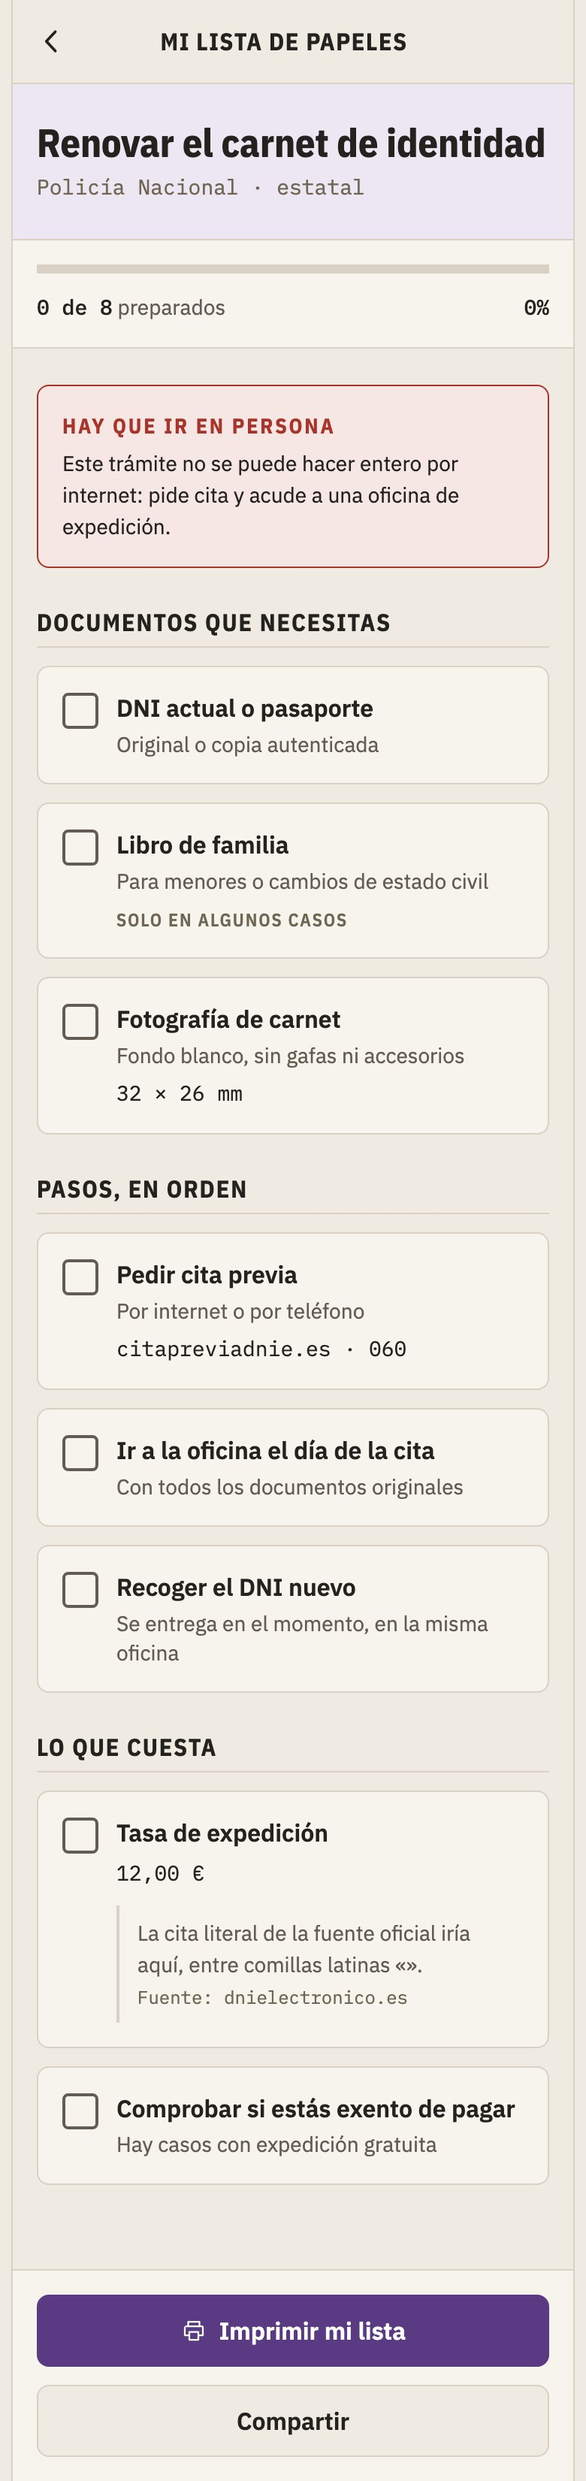
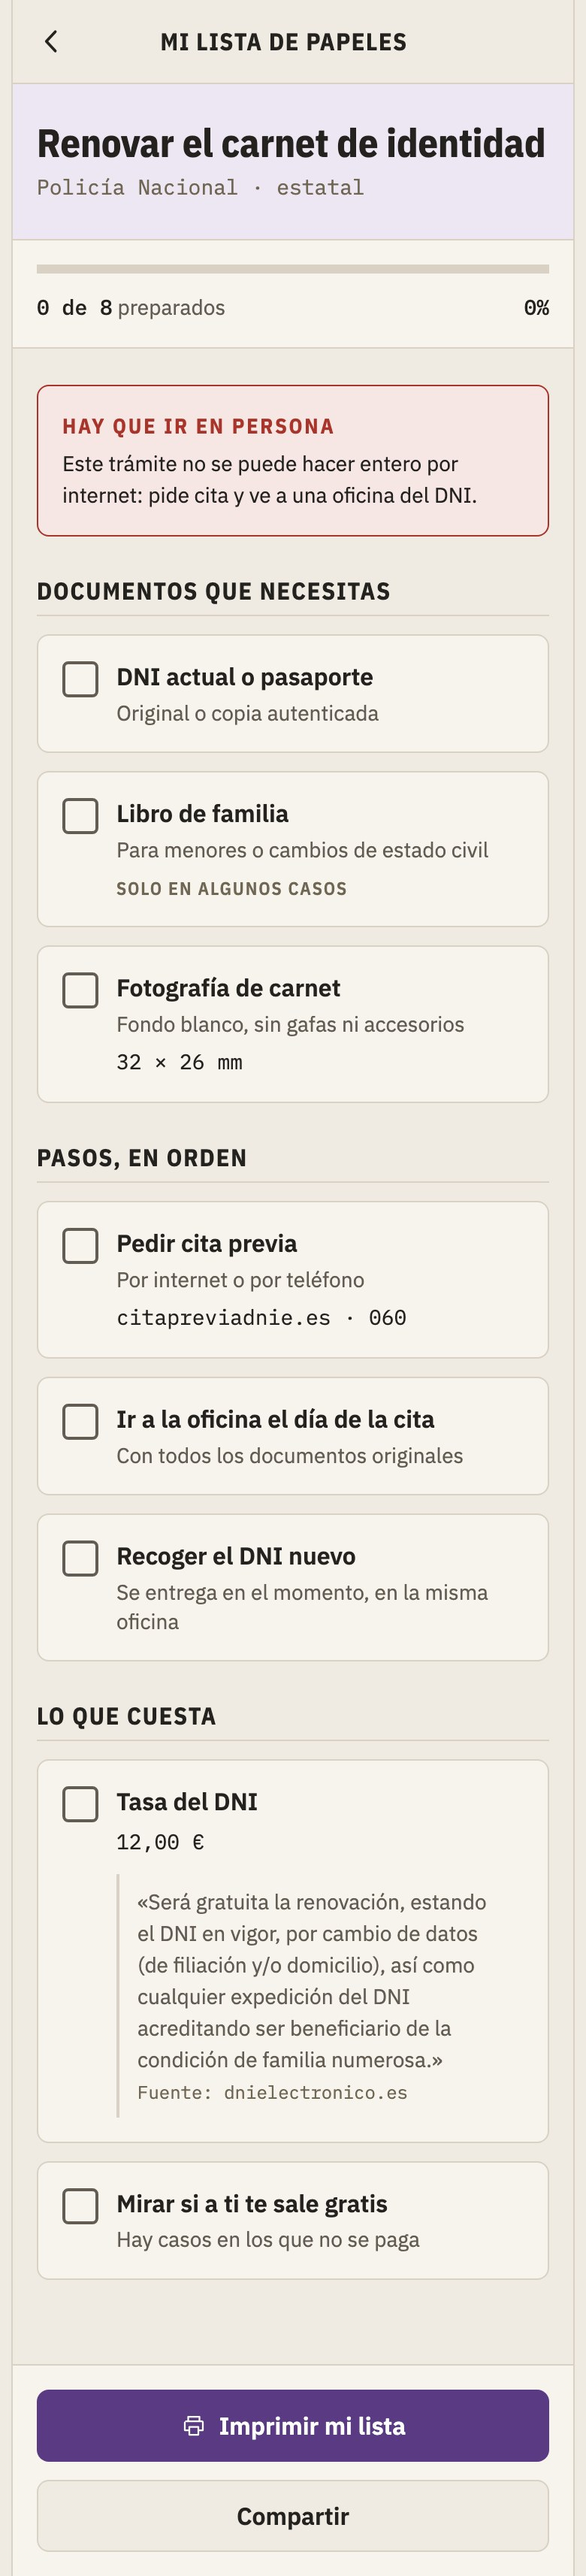
Repasar el texto de las cinco maquetas
Catorce cosas que sonaban a formulario o a maqueta sin terminar.

Lo que se publicaba mal:
- La checklist llevaba una nota para nosotros donde va la cita de la fuente («la
  cita literal iría aquí»), y salía en la captura commiteada. Ahora lleva una cita
  literal de verdad de dnielectronico.es, sobre cuándo el DNI sale gratis.
- La pestaña del wizard decía "Wizard de personalización". Ahora "Tu caso", igual
  que su barra.

Jerga de ventanilla, que es justo lo que prohíbe el DESIGN.md:
- "Mi cónyuge o conviviente" -> "Mi marido, mi mujer o mi pareja"
- "Yo soy quien lo solicita" -> "El trámite es para mí"
- "Así ajustamos los requisitos a tu caso" -> "...solo los papeles que necesitas tú"
- "acude a una oficina de expedición" -> "ve a una oficina del DNI"
- "Comprobar si estás exento de pagar" -> "Mirar si a ti te sale gratis"
- "la toma de huellas se hacen en la oficina" -> "las huellas te las toman allí"
- Las etiquetas "Nivel" y "Canales" -> "Ámbito" y "Cómo se hace"

Incoherencias entre pantallas:
- Los canales se llamaban "Online/En persona" en la ficha y "Desde casa/En una
  sede" en el wizard. Ahora "Por internet/En persona" en las tres.
- "Elige el canal" en la ficha y "Elige cómo vas a hacerlo" en el resumen. Se
  queda la segunda.
- Los pies de Home y ficha no coincidían. Ahora los dos llevan lo mismo.
- "El mes que viene / En los próximos dos meses" se contradecía sola.

Redacción:
- La descripción de la ficha empezaba en infinitivo y acababa tuteando.
[…]

Changed region(s): [[0.0615, 0.0, 0.9538, 0.8734], [0.0615, 0.9046, 0.9231, 0.9982], [0.8, 0.7174, 0.8308, 0.7486]]

diff --git a/diseño/pantallas/Wizard.html b/diseño/pantallas/Wizard.html
@@ -3,7 +3,7 @@
 <head>
   <meta charset="UTF-8">
   <meta name="viewport" content="width=device-width, initial-scale=1.0">
-  <title>Wizard de personalización · A la Primera</title>
+  <title>Tu caso · A la Primera</title>
   <link href="https://fonts.googleapis.com/css2?family=IBM+Plex+Sans:wght@400;500;600;700&family=IBM+Plex+Mono:wght@400;500;600&family=IBM+Plex+Sans+Condensed:wght@600;700&display=swap" rel="stylesheet">
   <style>
     * {
@@ -510,7 +510,7 @@
       <div class="pregunta activa" id="pregunta-1">
         <div>
           <h1 class="pregunta-titular">¿Para quién es?</h1>
-          <p class="pregunta-apoyo">Así ajustamos los requisitos a tu caso</p>
+          <p class="pregunta-apoyo">Así te decimos solo los papeles que necesitas tú</p>
         </div>
 
         <div class="opciones" id="opciones-1">
@@ -518,7 +518,7 @@
             <span class="opcion-icono"><svg viewBox="0 0 24 24" aria-hidden="true"><use href="#icono-persona"/></svg></span>
             <span class="opcion-texto">
               <span class="opcion-nombre">Para mí</span>
-              <span class="opcion-detalle">Yo soy quien lo solicita</span>
+              <span class="opcion-detalle">El trámite es para mí</span>
             </span>
             <span class="opcion-marca"><svg viewBox="0 0 24 24" aria-hidden="true"><use href="#icono-marca"/></svg></span>
           </button>
@@ -534,7 +534,7 @@
             <span class="opcion-icono"><svg viewBox="0 0 24 24" aria-hidden="true"><use href="#icono-pareja"/></svg></span>
             <span class="opcion-texto">
               <span class="opcion-nombre">Para mi pareja</span>
-              <span class="opcion-detalle">Mi cónyuge o conviviente</span>
+              <span class="opcion-detalle">Mi marido, mi mujer o mi pareja</span>
             </span>
             <span class="opcion-marca"><svg viewBox="0 0 24 24" aria-hidden="true"><use href="#icono-marca"/></svg></span>
           </button>
@@ -542,7 +542,7 @@
             <span class="opcion-icono"><svg viewBox="0 0 24 24" aria-hidden="true"><use href="#icono-otra-persona"/></svg></span>
             <span class="opcion-texto">
               <span class="opcion-nombre">Para otra persona</span>
-              <span class="opcion-detalle">Un familiar u otra persona</span>
+              <span class="opcion-detalle">Un familiar, un vecino, alguien a quien ayudo</span>
             </span>
             <span class="opcion-marca"><svg viewBox="0 0 24 24" aria-hidden="true"><use href="#icono-marca"/></svg></span>
           </button>
@@ -577,7 +577,7 @@
             <span class="opcion-icono"><svg viewBox="0 0 24 24" aria-hidden="true"><use href="#icono-calendario-mes"/></svg></span>
             <span class="opcion-texto">
               <span class="opcion-nombre">El mes que viene</span>
-              <span class="opcion-detalle">En los próximos dos meses</span>
+              <span class="opcion-detalle">Dentro de uno o dos meses</span>
             </span>
             <span class="opcion-marca"><svg viewBox="0 0 24 24" aria-hidden="true"><use href="#icono-marca"/></svg></span>
           </button>
@@ -596,23 +596,23 @@
       <div class="pregunta" id="pregunta-3">
         <div>
           <h1 class="pregunta-titular">¿Cómo prefieres hacerlo?</h1>
-          <p class="pregunta-apoyo">Online o en una oficina: tú decides</p>
+          <p class="pregunta-apoyo">Por internet o en persona: tú decides</p>
         </div>
 
         <div class="opciones" id="opciones-3">
           <button class="opcion" data-opcion="internet">
             <span class="opcion-icono"><svg viewBox="0 0 24 24" aria-hidden="true"><use href="#icono-ordenador"/></svg></span>
             <span class="opcion-texto">
-              <span class="opcion-nombre">Desde casa</span>
-              <span class="opcion-detalle">Por internet, sin desplazarte</span>
+              <span class="opcion-nombre">Por internet</span>
+              <span class="opcion-detalle">Sin moverte de casa</span>
             </span>
             <span class="opcion-marca"><svg viewBox="0 0 24 24" aria-hidden="true"><use href="#icono-marca"/></svg></span>
           </button>
           <button class="opcion" data-opcion="presencial">
             <span class="opcion-icono"><svg viewBox="0 0 24 24" aria-hidden="true"><use href="#icono-edificio"/></svg></span>
             <span class="opcion-texto">
-              <span class="opcion-nombre">En una oficina</span>
-              <span class="opcion-detalle">Ir en persona a una sede</span>
+              <span class="opcion-nombre">En persona</span>
+              <span class="opcion-detalle">Yendo a una oficina</span>
             </span>
             <span class="opcion-marca"><svg viewBox="0 0 24 24" aria-hidden="true"><use href="#icono-marca"/></svg></span>
           </button>
@@ -655,7 +655,7 @@
             <span class="opcion-icono"><svg viewBox="0 0 24 24" aria-hidden="true"><use href="#icono-pregunta"/></svg></span>
             <span class="opcion-texto">
               <span class="opcion-nombre">Todavía no lo sé</span>
-              <span class="opcion-detalle">Quiero que alguien me oriente</span>
+              <span class="opcion-detalle">Ya lo decidiré sobre la marcha</span>
             </span>
             <span class="opcion-marca"><svg viewBox="0 0 24 24" aria-hidden="true"><use href="#icono-marca"/></svg></span>
           </button>

diff --git a/diseño/pantallas/Detalle de trámite.html b/diseño/pantallas/Detalle de trámite.html
@@ -469,9 +469,9 @@
       <!-- DESCRIPCIÓN -->
       <div class="tarjeta">
         <p class="descripcion">
-          Renovar el DNI cuando está caducado, a punto de caducar, se ha deteriorado
-          o has perdido el anterior. Hay que ir en persona y con cita previa a una
-          oficina de expedición.
+          Sirve para renovar el DNI cuando está caducado, a punto de caducar, se ha
+          estropeado o lo has perdido. Hay que pedir cita e ir en persona a una
+          oficina del DNI.
         </p>
       </div>
 
@@ -479,12 +479,12 @@
       <div class="tarjeta">
         <h2 class="tarjeta-titulo">La ficha</h2>
         <div class="fila-dato">
-          <span class="dato-clave">Nivel</span>
+          <span class="dato-clave">Ámbito</span>
           <span class="dato-valor">estatal</span>
         </div>
         <div class="fila-dato">
-          <span class="dato-clave">Canales</span>
-          <span class="dato-valor">online · presencial</span>
+          <span class="dato-clave">Cómo se hace</span>
+          <span class="dato-valor">por internet · en persona</span>
         </div>
         <div class="fila-dato">
           <span class="dato-clave">Plazo</span>
@@ -504,12 +504,12 @@
       <div class="canales">
         <h2 class="tarjeta-titulo">¿Cómo lo vas a hacer?</h2>
         <p class="canales-intro">
-          Elige el canal y verás exactamente qué llevar o qué preparar.
+          Elige cómo vas a hacerlo y verás exactamente qué llevar o qué preparar.
         </p>
         <div class="rejilla-canales">
-          <button class="canal" aria-label="Elegir hacerlo online" aria-pressed="false">
+          <button class="canal" aria-label="Elegir hacerlo por internet" aria-pressed="false">
             <svg viewBox="0 0 24 24" aria-hidden="true"><use href="#icono-ordenador"/></svg>
-            <span>Online</span>
+            <span>Por internet</span>
           </button>
           <button class="canal" aria-label="Elegir hacerlo en persona" aria-pressed="false">
             <svg viewBox="0 0 24 24" aria-hidden="true"><use href="#icono-edificio"/></svg>
@@ -522,8 +522,8 @@
       <div class="aviso">
         <div class="aviso-titulo">Hay que ir en persona</div>
         <div class="aviso-texto">
-          La entrega de documentos y la toma de huellas se hacen en la oficina: este
-          trámite no se puede completar entero por internet.
+          Los papeles hay que entregarlos allí, y las huellas te las toman allí: este
+          trámite no se puede hacer entero por internet.
         </div>
       </div>
 
@@ -535,7 +535,7 @@
 
     <!-- PIE -->
     <footer class="pie">
-      © 2026 A la Primera · <a href="#">Privacidad</a> · <a href="#">Avisar de un error</a>
+      © 2026 A la Primera · <a href="#">Privacidad</a> · <a href="#">Sobre el proyecto</a> · <a href="#">Avisar de un error</a>
     </footer>
   </div>
 

diff --git a/diseño/pantallas/Checklist.html b/diseño/pantallas/Checklist.html
@@ -487,8 +487,8 @@
       <div class="aviso">
         <div class="aviso-titulo">Hay que ir en persona</div>
         <div class="aviso-texto">
-          Este trámite no se puede hacer entero por internet: pide cita y acude a una
-          oficina de expedición.
+          Este trámite no se puede hacer entero por internet: pide cita y ve a una
+          oficina del DNI.
         </div>
       </div>
 
@@ -560,10 +560,10 @@
         <div class="item" data-item="coste-1">
           <div class="casilla"><svg viewBox="0 0 24 24" aria-hidden="true"><use href="#icono-marca"/></svg></div>
           <div class="item-cuerpo">
-            <div class="item-nombre">Tasa de expedición</div>
+            <div class="item-nombre">Tasa del DNI</div>
             <div class="item-dato">12,00 €</div>
             <div class="cita-fuente">
-              La cita literal de la fuente oficial iría aquí, entre comillas latinas «».
+              «Será gratuita la renovación, estando el DNI en vigor, por cambio de datos (de filiación y/o domicilio), así como cualquier expedición del DNI acreditando ser beneficiario de la condición de familia numerosa.»
               <span class="origen">Fuente: dnielectronico.es</span>
             </div>
           </div>
@@ -572,8 +572,8 @@
         <div class="item" data-item="coste-2">
           <div class="casilla"><svg viewBox="0 0 24 24" aria-hidden="true"><use href="#icono-marca"/></svg></div>
           <div class="item-cuerpo">
-            <div class="item-nombre">Comprobar si estás exento de pagar</div>
-            <div class="item-detalle">Hay casos con expedición gratuita</div>
+            <div class="item-nombre">Mirar si a ti te sale gratis</div>
+            <div class="item-detalle">Hay casos en los que no se paga</div>
           </div>
         </div>
       </section>

diff --git a/diseño/pantallas/Resumen.html b/diseño/pantallas/Resumen.html
@@ -466,9 +466,9 @@
       <h2 class="titulo-seccion">¿Cómo prefieres hacerlo?</h2>
 
       <div class="rejilla-canales">
-        <button class="canal" id="canal-online" aria-label="Elegir hacerlo online" aria-pressed="false">
+        <button class="canal" id="canal-online" aria-label="Elegir hacerlo por internet" aria-pressed="false">
           <svg viewBox="0 0 24 24" aria-hidden="true"><use href="#icono-ordenador"/></svg>
-          <span>Online</span>
+          <span>Por internet</span>
         </button>
         <button class="canal" id="canal-presencial" aria-label="Elegir hacerlo en persona" aria-pressed="false">
           <svg viewBox="0 0 24 24" aria-hidden="true"><use href="#icono-edificio"/></svg>

diff --git a/diseño/pantallas/Home - Buscador.html b/diseño/pantallas/Home - Buscador.html
@@ -556,7 +556,7 @@
 
     <!-- PIE -->
     <footer class="pie">
-      © 2026 A la Primera · <a href="#">Privacidad</a> · <a href="#">Sobre el proyecto</a>
+      © 2026 A la Primera · <a href="#">Privacidad</a> · <a href="#">Sobre el proyecto</a> · <a href="#">Avisar de un error</a>
     </footer>
   </div>
 
